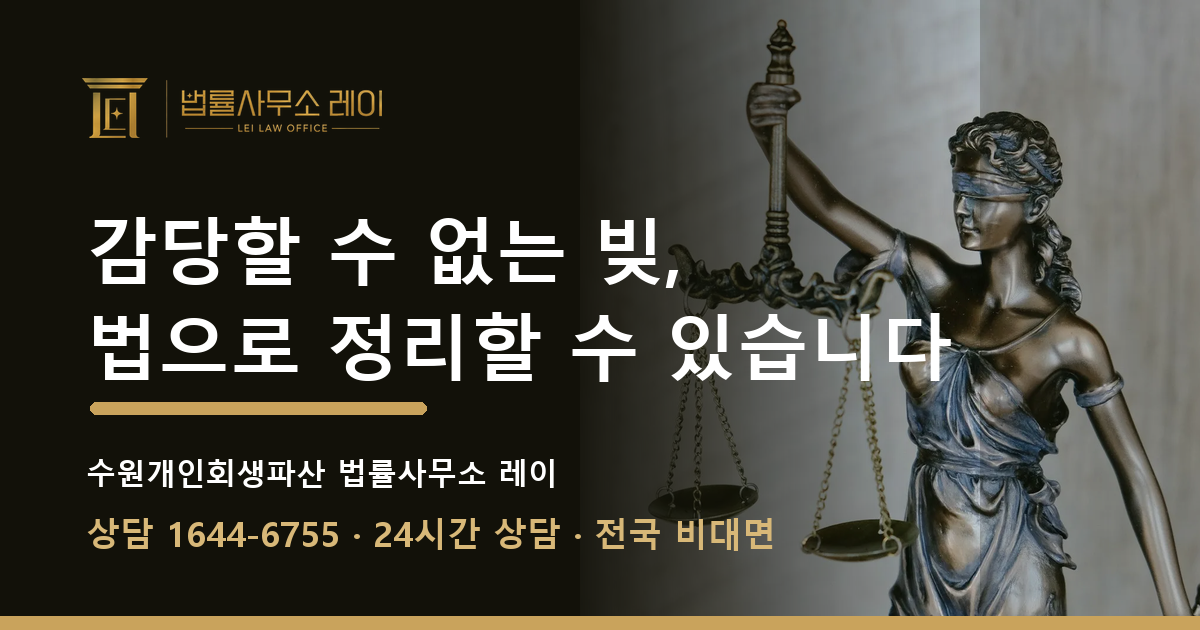
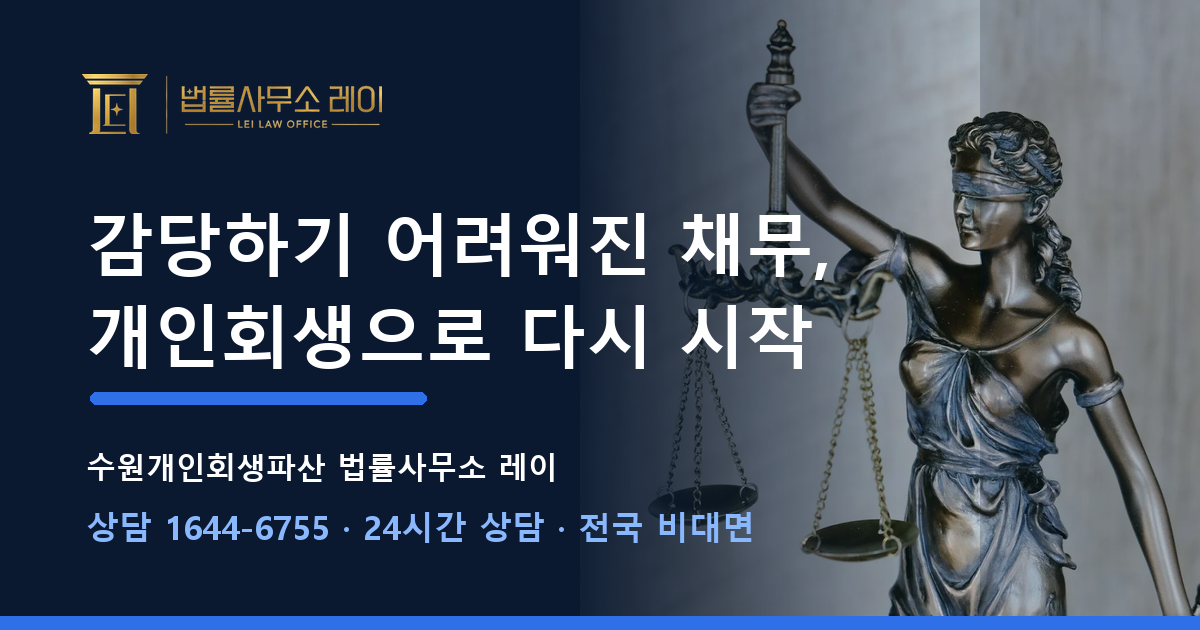
화이트+블루 테마 복귀(골드는 로고 전용), 헤더 로고 겹침 수정
- 브라운/골드 UI 전면 제거 → 네이비/블루 토큰 복귀 (파스텔 섹션 유지)
- CTA 버튼 블루+흰 글자, 히어로 강조 라이트블루, OG 네이비 재생성
- .logo flex:0 0 auto로 메뉴 침범 해결, ≤1280 GNB 압축·≤1080 전화 숨김

diff --git a/app/static/css/site.css b/app/static/css/site.css
@@ -5,20 +5,20 @@
 @import url('https://cdn.jsdelivr.net/gh/orioncactus/pretendard@v1.3.9/dist/web/static/pretendard.min.css');
 
 :root{
-  --ink:#1c1b18; --ink-2:#63615b; --ink-3:#9c998f;
-  --line:#e6e5e1; --line-2:#f1f0ee;
-  --paper:#ffffff; --paper-2:#f7f7f5;
-  --green:#232220; --green-2:#4c4a44; --green-bright:#b98f4a;
-  --green-dark:#191813; --green-deep:#121109;
-  --mint:#f2f1ee; --mint-2:#e3e1dc;
+  --ink:#191d24; --ink-2:#5b6472; --ink-3:#96a0ac;
+  --line:#e5e9ef; --line-2:#f0f3f7;
+  --paper:#ffffff; --paper-2:#f6f8fb;
+  --green:#1c3d6e; --green-2:#2b62c4; --green-bright:#2f6fe8;
+  --green-dark:#0e2242; --green-deep:#0a1930;
+  --mint:#eaf1fc; --mint-2:#d5e3f8;
   --gold:#a5854c; --gold-2:#84683a;
   /* 구명칭 별칭 */
   --navy:var(--green); --navy-2:var(--green-2); --red:var(--green-2);
   --sans:'Pretendard', -apple-system, 'Apple SD Gothic Neo', 'Malgun Gothic', sans-serif;
   --serif:var(--sans);
   --r:16px; --r-s:10px;
-  --shadow:0 1px 2px rgba(40,36,24,.05),0 8px 24px rgba(40,36,24,.06);
-  --shadow-lg:0 24px 60px rgba(40,36,24,.14);
+  --shadow:0 1px 2px rgba(15,32,64,.05),0 8px 24px rgba(15,32,64,.06);
+  --shadow-lg:0 24px 60px rgba(15,32,64,.14);
   --w:1140px;
 }
 *{box-sizing:border-box;margin:0;padding:0}
@@ -36,13 +36,13 @@ p{margin:0}
 .sec{padding:92px 0}
 .sec.alt{background:var(--paper-2)}
 .sec.dark{background:var(--green-dark);color:#fff}
-.sec.dark.bgimg{background:linear-gradient(rgba(17,16,10,.93),rgba(30,28,19,.95)),url('../img/bg-library.webp') center/cover no-repeat}
+.sec.dark.bgimg{background:linear-gradient(rgba(9,22,42,.93),rgba(13,31,60,.95)),url('../img/bg-library.webp') center/cover no-repeat}
 .sec.dark h2{color:#fff}
 .sec-head{margin-bottom:42px}
 .sec-head .label{display:inline-flex;align-items:center;gap:8px;font-size:13px;font-weight:700;color:var(--green-2);margin-bottom:12px}
 .sec-head .label::before{content:"";width:22px;height:2px;background:var(--green-2)}
-.sec.dark .sec-head .label{color:#cfb27e}
-.sec.dark .sec-head .label::before{background:#cfb27e}
+.sec.dark .sec-head .label{color:#9dbdf2}
+.sec.dark .sec-head .label::before{background:#9dbdf2}
 .sec-head h2{margin-bottom:12px}
 .sec-head.center{text-align:center}
 .sec-head.center .label::before{display:none}
@@ -50,11 +50,11 @@ p{margin:0}
 .sec.dark .sec-head p{color:rgba(255,255,255,.72)}
 .lead{font-size:17px;color:var(--ink-2);max-width:720px}
 .btn{display:inline-block;padding:15px 28px;font-weight:700;font-size:15px;border:1px solid var(--green);background:var(--green);color:#fff;line-height:1.3;border-radius:var(--r-s);transition:background .18s,transform .18s,box-shadow .18s,border-color .18s;cursor:pointer}
-.btn:hover{background:var(--green-2);border-color:var(--green-2);transform:translateY(-2px);box-shadow:0 10px 24px rgba(70,55,25,.18)}
+.btn:hover{background:var(--green-2);border-color:var(--green-2);transform:translateY(-2px);box-shadow:0 10px 24px rgba(20,50,110,.18)}
 .btn.line{background:#fff;color:var(--green);border-color:var(--line)}
-.btn.line:hover{background:var(--paper-2);box-shadow:0 8px 20px rgba(40,36,24,.08)}
-.btn.red,.btn.gold{background:var(--green-bright);border-color:var(--green-bright);color:#1c1b16;font-weight:800}
-.btn.red:hover,.btn.gold:hover{background:#c89d58;border-color:#c89d58;color:#1c1b16}
+.btn.line:hover{background:var(--paper-2);box-shadow:0 8px 20px rgba(15,32,64,.08)}
+.btn.red,.btn.gold{background:var(--green-bright);border-color:var(--green-bright);font-weight:800}
+.btn.red:hover,.btn.gold:hover{background:#3d7cf0;border-color:#3d7cf0}
 .btn.wide{display:block;width:100%;text-align:center}
 :focus-visible{outline:2px solid var(--green-bright);outline-offset:2px}
 
@@ -82,9 +82,9 @@ p{margin:0}
 .topbar span+span{margin-left:18px}
 .topbar b{color:#fff;font-weight:600}
 .hdr{background:rgba(255,255,255,.92);backdrop-filter:blur(10px);position:sticky;top:0;z-index:20;transition:box-shadow .25s;border-bottom:1px solid transparent}
-.hdr.scrolled{box-shadow:0 6px 24px rgba(40,36,24,.08);border-bottom-color:var(--line-2)}
+.hdr.scrolled{box-shadow:0 6px 24px rgba(15,32,64,.08);border-bottom-color:var(--line-2)}
 .hdr .wrap{display:flex;align-items:center;height:76px;gap:26px}
-.logo{display:flex;align-items:center;gap:10px;white-space:nowrap}
+.logo{display:flex;align-items:center;gap:10px;white-space:nowrap;flex:0 0 auto}
 .logo img{height:40px;width:auto;display:block}
 .logo .lname{font-weight:800;font-size:19px;letter-spacing:-.01em;color:#8a6a34;line-height:1.15}
 .logo .lname small{display:block;font-weight:600;font-size:9.5px;letter-spacing:.26em;color:#b99a63}
@@ -115,25 +115,25 @@ p{margin:0}
 .hero .bg img{width:100%;height:100%;object-fit:cover;object-position:72% center;animation:kb 10s ease-out both}
 @keyframes kb{from{transform:scale(1)}to{transform:scale(1.07)}}
 .hero::after{content:"";position:absolute;inset:0;z-index:1;background:
-  linear-gradient(0deg,rgba(19,18,11,.5) 0%,transparent 26%),
-  linear-gradient(90deg,var(--green-deep) 0%,var(--green-deep) 38%,rgba(19,18,11,.9) 52%,rgba(19,18,11,.45) 74%,rgba(19,18,11,.22) 100%)}
+  linear-gradient(0deg,rgba(10,25,48,.5) 0%,transparent 26%),
+  linear-gradient(90deg,var(--green-deep) 0%,var(--green-deep) 38%,rgba(10,25,48,.9) 52%,rgba(10,25,48,.45) 74%,rgba(10,25,48,.22) 100%)}
 .hero .wrap{position:relative;z-index:2}
 .hero-copy{max-width:620px;padding:108px 0 116px}
-.hero .kicker{display:block;font-size:13.5px;font-weight:700;letter-spacing:.16em;color:#d8b878;margin-bottom:20px;animation:heroUp .8s cubic-bezier(.2,.65,.3,1) both}
+.hero .kicker{display:block;font-size:13.5px;font-weight:700;letter-spacing:.16em;color:#8ab8ff;margin-bottom:20px;animation:heroUp .8s cubic-bezier(.2,.65,.3,1) both}
 .hero h1{font-size:49px;color:#fff;margin-bottom:22px;font-weight:800;letter-spacing:-.03em;text-shadow:0 4px 24px rgba(0,0,0,.3);animation:heroUp .8s .1s cubic-bezier(.2,.65,.3,1) both}
-.hero h1 em{font-style:normal;color:#e5c584;position:relative;white-space:nowrap}
-.hero h1 em::after{content:"";position:absolute;left:0;bottom:6px;height:12px;width:0;background:rgba(201,163,92,.30);z-index:-1;border-radius:4px;animation:emLine .7s 1s cubic-bezier(.2,.65,.3,1) forwards}
+.hero h1 em{font-style:normal;color:#8ab8ff;position:relative;white-space:nowrap}
+.hero h1 em::after{content:"";position:absolute;left:0;bottom:6px;height:12px;width:0;background:rgba(96,165,250,.28);z-index:-1;border-radius:4px;animation:emLine .7s 1s cubic-bezier(.2,.65,.3,1) forwards}
 @keyframes emLine{to{width:100%}}
 .hero .sub{font-size:18.5px;color:rgba(255,255,255,.82);max-width:540px;margin-bottom:36px;animation:heroUp .8s .2s cubic-bezier(.2,.65,.3,1) both}
 .hero .btns{display:flex;gap:12px;flex-wrap:wrap;margin-bottom:30px;animation:heroUp .8s .3s cubic-bezier(.2,.65,.3,1) both}
 .hero .btns .btn{padding:19px 38px;font-size:17px;border-radius:14px}
-.hero .btns .btn.gold{background:var(--green-bright);border-color:var(--green-bright);font-weight:800;color:#1c1b16}
-.hero .btns .btn.gold:hover{background:#c89d58;border-color:#c89d58}
-.hero .btns .btn.ghost{background:rgba(19,18,11,.35);border-color:rgba(255,255,255,.35);color:#fff;backdrop-filter:blur(3px)}
+.hero .btns .btn.gold{background:var(--green-bright);border-color:var(--green-bright);font-weight:800}
+.hero .btns .btn.gold:hover{background:#3d7cf0;border-color:#3d7cf0}
+.hero .btns .btn.ghost{background:rgba(10,25,48,.35);border-color:rgba(255,255,255,.35);color:#fff;backdrop-filter:blur(3px)}
 .hero .btns .btn.ghost:hover{background:rgba(255,255,255,.14)}
 .hero .chips{display:flex;gap:8px;flex-wrap:wrap;animation:heroUp .8s .4s cubic-bezier(.2,.65,.3,1) both}
-.chip{font-size:13.5px;font-weight:600;color:rgba(255,255,255,.78);border:1px solid rgba(255,255,255,.22);border-radius:999px;padding:7px 15px;background:rgba(19,18,11,.25)}
-.hero .namecard{position:absolute;right:44px;bottom:38px;z-index:3;background:#fff;color:var(--ink);border-radius:14px;padding:13px 22px;box-shadow:0 18px 44px rgba(12,11,6,.4);animation:heroUp .9s .5s cubic-bezier(.2,.65,.3,1) both}
+.chip{font-size:13.5px;font-weight:600;color:rgba(255,255,255,.78);border:1px solid rgba(255,255,255,.22);border-radius:999px;padding:7px 15px;background:rgba(10,25,48,.25)}
+.hero .namecard{position:absolute;right:44px;bottom:38px;z-index:3;background:#fff;color:var(--ink);border-radius:14px;padding:13px 22px;box-shadow:0 18px 44px rgba(4,12,30,.4);animation:heroUp .9s .5s cubic-bezier(.2,.65,.3,1) both}
 .hero .namecard b{display:block;font-size:17px;font-weight:800;letter-spacing:-.01em}
 .hero .namecard span{font-size:12.5px;color:var(--ink-2)}
 .hero .scroll-hint{position:absolute;bottom:30px;left:50%;transform:translateX(-50%);z-index:3;font-size:10.5px;letter-spacing:.24em;color:rgba(255,255,255,.65);writing-mode:vertical-rl;padding-bottom:46px}
@@ -463,13 +463,13 @@ p{margin:0}
 .bio-card ul li{padding:7px 0;border-bottom:1px solid var(--line-2);font-size:14.5px;color:var(--ink-2)}
 .bio-card ul li:last-child{border-bottom:0}
 
-.cta-band{background:linear-gradient(rgba(17,16,10,.88),rgba(30,28,19,.92)),url('../img/bg-court.webp') center 30%/cover no-repeat var(--green-dark);color:#fff;padding:88px 0;text-align:center}
+.cta-band{background:linear-gradient(rgba(9,22,42,.88),rgba(13,31,60,.92)),url('../img/bg-court.webp') center 30%/cover no-repeat var(--green-dark);color:#fff;padding:88px 0;text-align:center}
 .cta-band h2{color:#fff;margin-bottom:10px}
 .cta-band p{color:rgba(255,255,255,.75);margin-bottom:28px}
 .cta-band .btn{margin:0 5px;background:#fff;color:var(--green);border-color:#fff;border-radius:12px}
 .cta-band .btn:hover{background:var(--mint);border-color:var(--mint)}
-.cta-band .btn.red{background:var(--green-bright);color:#1c1b16;border-color:var(--green-bright);font-weight:800}
-.cta-band .btn.red:hover{background:#c89d58}
+.cta-band .btn.red{background:var(--green-bright);color:#fff;border-color:var(--green-bright);font-weight:800}
+.cta-band .btn.red:hover{background:#3d7cf0}
 
 /* 푸터 */
 .ftr{background:var(--green-deep);color:rgba(255,255,255,.6);padding:48px 0 56px;font-size:13px;line-height:1.9}
@@ -531,10 +531,10 @@ p{margin:0}
 .side-list li a:hover{text-decoration:underline;text-underline-offset:4px}
 
 /* 고정 CTA */
-.mbar{position:fixed;left:0;right:0;bottom:0;height:56px;display:none;grid-template-columns:1fr 1fr;z-index:30;border-top:1px solid var(--line);box-shadow:0 -6px 20px rgba(40,36,24,.08)}
+.mbar{position:fixed;left:0;right:0;bottom:0;height:56px;display:none;grid-template-columns:1fr 1fr;z-index:30;border-top:1px solid var(--line);box-shadow:0 -6px 20px rgba(15,32,64,.08)}
 .mbar a{display:flex;align-items:center;justify-content:center;font-weight:700;font-size:15px;background:#fff;color:var(--green);border-right:1px solid var(--line)}
 .mbar a.t{background:var(--green);color:#fff;border:none}
-.float{position:fixed;right:22px;top:50%;transform:translateY(-50%);z-index:40;background:#fff;border-radius:16px;overflow:hidden;width:76px;text-align:center;font-size:11.5px;box-shadow:0 18px 44px rgba(40,36,24,.18)}
+.float{position:fixed;right:22px;top:50%;transform:translateY(-50%);z-index:40;background:#fff;border-radius:16px;overflow:hidden;width:76px;text-align:center;font-size:11.5px;box-shadow:0 18px 44px rgba(15,32,64,.18)}
 .float a{display:block;padding:14px 4px 12px;border-bottom:1px solid var(--line-2);color:var(--ink-2);font-weight:600;transition:background .2s,color .2s}
 .float a:last-child{border-bottom:0}
 .float a svg{display:block;width:22px;height:22px;margin:0 auto 5px;color:var(--green-2)}
@@ -550,10 +550,20 @@ body.nav-open .hdr{backdrop-filter:none;-webkit-backdrop-filter:none;background:
 body.nav-open .gnb{display:flex;position:fixed;top:60px;left:0;right:0;bottom:56px;background:#fff;flex-direction:column;gap:0;padding:16px 20px;margin:0;font-size:17px;z-index:40;overflow-y:auto;border-top:1px solid var(--line)}
 body.nav-open .gnb a{padding:15px 4px;border-bottom:1px solid var(--line-2);border-radius:0}
 
+@media (max-width:1280px){
+  .gnb{gap:0;font-size:14px}
+  .gnb a{padding:9px 9px}
+  .hdr-tel b{font-size:17px}
+  .logo .lname{font-size:17px}
+  .logo .lname small{font-size:8.5px;letter-spacing:.2em}
+}
+@media (max-width:1080px){
+  .hdr-tel{display:none}
+}
 @media (max-width:960px){
   .hero h1{font-size:33px;text-align:center}
   .hero .bg{width:100%}
-  .hero::after{background:linear-gradient(180deg,rgba(19,18,11,.92) 0%,rgba(19,18,11,.82) 55%,rgba(19,18,11,.9) 100%)}
+  .hero::after{background:linear-gradient(180deg,rgba(10,25,48,.92) 0%,rgba(10,25,48,.82) 55%,rgba(10,25,48,.9) 100%)}
   .hero-copy{max-width:100%;padding:64px 0 72px;text-align:center}
   .hero .sub{margin-left:auto;margin-right:auto}
   .hero .btns{justify-content:center}

diff --git a/CLAUDE.md b/CLAUDE.md
@@ -51,7 +51,8 @@ seed/                (Phase 3) dong.csv, job.csv, faq.csv
 - FAQPage JSON-LD는 `partials/faq_jsonld.html` (동·구·직업·상황 페이지 head에 포함).
 
 ### 2026-09-21 대규모 수정 (원문: Downloads/사이트(수정).hwpx — 의뢰인 수정요청서)
-- **팔레트 (최종): 화이트/차콜 뉴트럴 + 골드는 포인트만** — 공식 로고(골드)에 맞추되, UI 전반에 골드를 깔면 "AI스럽다" 피드백(9-21) → 골드는 **로고·CTA 버튼(--green-bright)·히어로 강조(em/kicker)·다크섹션 라벨**에만. 액센트/아이콘/링크(--green-2)는 차콜(#4c4a44), 틴트(--mint)는 뉴트럴 그레이. 골드 배경 버튼은 어두운 글자(#1c1b16).
+- **팔레트 (진짜 최종, 9-21 2차): 화이트 + 네이비/블루. 골드는 로고에서만** — 브라운/골드 UI도 "AI스럽다"고 거부됨. 토큰은 네이비(#1c3d6e)/블루(#2f6fe8)/라이트블루 틴트로 복귀(의뢰인이 보낸 레퍼런스 이미지 3장이 전부 화이트+블루 계열). 파스텔 멀티컬러 섹션(이런경우에도/제도비교/절차 안내 카드)은 유지. **골드(#8a6a34 계열)는 헤더/푸터 로고 텍스트(.lname/.flogo)와 엠블럼·OG 로고에서만 사용 — UI 색으로 재사용 금지.**
+- 헤더 로고 겹침 방지: .logo{flex:0 0 auto} 필수. ≤1280px에서 GNB 압축, ≤1080px에서 hdr-tel 숨김.
 - **로고 투명화 주의**: 흰배경 로고를 투명화할 때 밝기 비례 알파를 쓰면 골드 중간톤까지 반투명해져 로고가 뿌옇게 깨짐 → **알파는 거의 이진**(밝기 232 이하 완전 불투명, 232~246만 램프)으로 처리할 것. logo.png는 표시폭의 4배(920px)로 저장.
 - **로고**: `img/logo.png`(가로형, 흰배경→투명 처리), `img/emblem.png`(기둥 엠블럼). 헤더·푸터에 이미지 로고, 파비콘=흰 라운드+엠블럼. OG도 로고 포함 재생성.
 - **브랜드명 "수원개인회생파산 법률사무소 레이"** / 주소 **1002호** / **24시간 상담·주말 예약제**.
